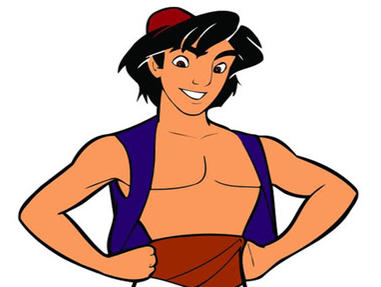
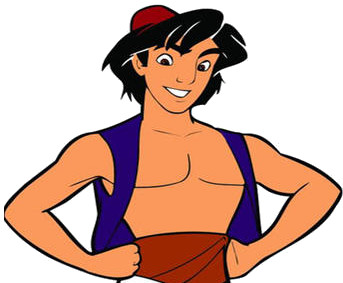
Phase three- game dynamics

Changed region(s): [[0.0, 0.0, 1.0, 1.0]]

diff --git a/assets/javascript/game.js b/assets/javascript/game.js
@@ -1,47 +1,96 @@
-
 var character = {
 
-	name:"",
-	hp:150,
+	hp:"",
 	attack:"",
 	counterattack:"",
 	frame:"",
 
-	chooseHero: function(){
-
-		this.frame.on("click", function(){
-			
-			$(this).appendTo("#hero");
-			$("<div>").text("You picked Aladdin !").appendTo("#hero");
-			$("<button>").addClass("btn btn-default primary attack").text("Strike").appendTo("#hero");		
-		});
-		
-	},
-
-	chooseOpponent: function(){
-
-		this.frame.on("click", function(){
-			
-			$(this).appendTo("#hero");
-			$("<div>").text("You picked Jafar !").appendTo("#opponent");
-					
-		});
-
-	},
-
 }
+var currentChar;
+var currentOpp;
+var attackpower;
 
 $(document).ready(function(){
 
+var btn = $("<button>").addClass("btn btn-default btn-warning");
 var aladdin = Object.create(character);
 var gazeem = Object.create(character);
 var jafar = Object.create(character);
 var genie = Object.create(character);
-aladdin.frame = $("<div>").addClass("characterframe circle aladdin").text(aladdin.hp).appendTo($("#ether"));
-gazeem.frame = $("<div>").addClass("characterframe circle gazeem").text(gazeem.hp).appendTo($("#ether"));
-jafar.frame = $("<div>").addClass("characterframe circle jafar").text(jafar.hp).appendTo($("#ether"));
-genie.frame = $("<div>").addClass("characterframe circle genie").text(genie.hp).appendTo($("#ether"));			
 
-aladdin.chooseHero();
-jafar.chooseOpponent();
+aladdin = {hp: 150, attack: 30, counterattack:40};
+gazeem = {hp: 130, attack: 22, counterattack: 50};
+jafar = {hp:200, attack: 45, counterattack:60};
+genie = {hp:180,attack:35,counterattack:45}
+aladdin.frame = $("<div>").addClass("characterframe circle aladdin").text(aladdin.hp).attr("name","aladdin").appendTo($("#ether"));
+gazeem.frame = $("<div>").addClass("characterframe circle gazeem").text(gazeem.hp).attr("name","gazeem").appendTo($("#ether"));
+jafar.frame = $("<div>").addClass("characterframe circle jafar").text(jafar.hp).attr("name","jafar").appendTo($("#ether"));
+genie.frame = $("<div>").addClass("characterframe circle genie").text(genie.hp).attr("name","genie").appendTo($("#ether"));			
+
+$("#instr").text("Pick A Character");
+$(".characterframe").on("click", function(){
+
+	if($("#hero").is(":empty")){
+		switch ($(this).attr("name")){
+			case "aladdin": currentChar = aladdin; btn.text(""); attackpower = currentChar.attack;
+			break;
+			case "jafar": currentChar = jafar; btn.text(""); attackpower = currentChar.attack;
+			break;
+			case "gazeem": currentChar = gazeem; btn.text(""); attackpower = currentChar.attack;
+			break;
+			case "genie": currentChar = genie; btn.text(""); attackpower = currentChar.attack;
+			break;
+		}
+		console.log(currentChar);
+		$(this).appendTo("#hero");		
+		btn.appendTo("#hero");
+		$("#ether").animate({height: "-=180px"},"easeInOutSine");
+		$("#instr").text("Pick An Opponent");
+	}
+	else if(!$("hero").is(":empty") && $("#opponent").is(":empty")){
+		switch ($(this).attr("name")){
+			case "aladdin": currentOpp = aladdin;
+			break;
+			case "jafar": currentOpp = jafar;
+			break;
+			case "gazeem": currentOpp = gazeem;
+			break;
+			case "genie": currentOpp = genie;
+			break;
+		}
+		console.log(currentOpp);	
+		$(this).appendTo("#opponent");
+		$("#ether").animate({height: "-=180px"},"easeInOutSine");
+		$("#instr").text("Battle")
+	}
+});
+
+btn.on("click", function(){
+
+	currentOpp.hp = currentOpp.hp - currentChar.attack;
+	currentChar.attack = currentChar.attack + attackpower;
+	currentOpp.frame.text(currentOpp.hp);
+	currentChar.hp = currentChar.hp - currentOpp.counterattack;
+	currentChar.frame.text(currentChar.hp);
+	if(currentOpp.hp <= 0){
+
+		currentOpp.hp = 0;
+		currentOpp.frame.text(currentOpp.hp);
+		$("#opponent").empty();
+		$("#instr").text("Pick Your Next Opponent")
+	}
+	else if(currentChar.hp <= 0){
+
+		currentChar.hp = 0;
+		currentChar.frame.text(currentChar.hp);
+		var lose = $("<div>").text("Better Luck Next Time, " + "Refresh to play again");
+		lose.appendTo("#hero");
+	}
+	
+});
+
+
+
+
+
 });

diff --git a/assets/css/style.css b/assets/css/style.css
@@ -41,53 +41,42 @@ background-size: cover;
 }
 .characterframe:hover{
 
-	/*background-color:orange;*/
+	background-color:orange;
 	opacity:0.6;
+}
+#hero div:first-child:hover{
+
+	opacity:1;
+	background-color: #ffffff;
+}
+#opponent div:first-child:hover{
+	opacity:1;
+	background-color: #ffffff;
 }
 #ether{
 	background-image: url(../images/stardust.png);
-	height: 100%;
+	height: 85%;
 	border-radius: 15px;
 	border:5px solid #2D414C;
 	
-}
-.container:after{
-  content: "";
-  display: block;
-  clear: both;
-}
-
-.container{
-	width:100%;
-	margin:auto;
-	background-color: #2D414C;
-	border:5px solid #2D414C;
-	border-radius: 15px;
-}
-.placeHolder:after{
-
-	content: "";
-  display: block;
-  clear: both;
 }
 #opponent{
 	float:left;
+	margin-left:150px;
+	
 	width:40%;
 }
 #hero{
-	float: left;
+	float:left;
+
 	width:40%;
 }
-.col-lg-6{
+.col-lg-8{
 	border: none;
 	border-radius: 15px;
 	
 }
-.col-lg-4{
-	border: none;
-	
-	
-}
+
 .panel{
 	border:5px solid;
 	border-radius:15px;
@@ -112,23 +101,30 @@ background-size: cover;
     border:5px solid #2D414C;
 	border-radius: 15px;
 }
+.panel-body{
+	display: inline-block;
+}
 .battle{
+	
 	margin:0;
 	background-color: #E2C8AC;
 	border-radius: 15px; 	
 	width:100%;
 }
+.battle:after{
+	content: "";
+	display: table;
+	clear: both;
+}
 .circle{
-	margin:25px 25px;
+	margin:15px auto;
 	height:170px;
 	width:90%;
-	color:orange;
+	color:black;
 	font-size: 20px;
 	font-weight: bolder;
-	text-align: center;
-	text-indent: 120px;
-	/*vertical-align: top;*/
-	/*line-height:70px;*/
+	text-align: left;
+	line-height:128px;
 	border:2px solid orange;
 	border-radius:50px 50px;
 }
@@ -141,7 +137,7 @@ background-size: cover;
 }
 .aladdin{
 	
-	background-image: url(../images/aladdin.jpg);
+	background-image: url(../images/aladdin.png);
 	background-repeat: no-repeat;
 	background-size: cover;
 }

diff --git a/assets/css/reset.css b/assets/css/reset.css
@@ -1,0 +1,43 @@
+html, body, div, span, applet, object, iframe,
+h1, h2, h3, h4, h5, h6, p, blockquote, pre,
+a, abbr, acronym, address, big, cite, code,
+del, dfn, em, img, ins, kbd, q, s, samp,
+small, strike, strong, sub, sup, tt, var,
+b, u, i, center,
+dl, dt, dd, ol, ul, li,
+fieldset, form, label, legend,
+table, caption, tbody, tfoot, thead, tr, th, td,
+article, aside, canvas, details, embed, 
+figure, figcaption, footer, header, hgroup, 
+menu, nav, output, ruby, section, summary,
+time, mark, audio, video {
+	margin: 0;
+	padding: 0;
+	border: 0;
+	font-size: 100%;
+	font: inherit;
+	vertical-align: baseline;
+}
+/* HTML5 display-role reset for older browsers */
+article, aside, details, figcaption, figure, 
+footer, header, hgroup, menu, nav, section {
+	display: block;
+}
+body {
+	line-height: 1;
+}
+ol, ul {
+	list-style: none;
+}
+blockquote, q {
+	quotes: none;
+}
+blockquote:before, blockquote:after,
+q:before, q:after {
+	content: '';
+	content: none;
+}
+table {
+	border-collapse: collapse;
+	border-spacing: 0;
+}

diff --git a/index.html b/index.html
@@ -24,26 +24,18 @@
 	<!-- <audio autoplay loop>
 		<source src="assets/Aladdin(ArabianNights).mp3" type="audio/mp3">
 	</audio> -->
-	<!-- <div class="jumbotron">
-		<img class="big" src="assets/images/jumbo.jpg">
-	</div> -->
 	<div class="row game">
 	<div class="col-lg-1"></div>
 	<div class="col-lg-2" id="ether">
 	</div>
-	<div class="col-lg-6">
+	<div class="col-lg-8">
 	<div class="row">
-
-	<!-- <div class="placeHolder">
-		<div id="hero"></div>
-    	<div id="opponent"></div>
-	</div> -->
-  	<div class="panel panel-default">
+  	<div class="panel panel-default col-lg-12">
   		
   		<div class="panel-heading">
   			<div class="panel-title" >
     		
-  			<h1>Pick Your Hero</h1>
+  			<h1 id="instr"></h1>
 			</div>
   			<div class="panel-body battle">
   				<div id="hero"></div>
